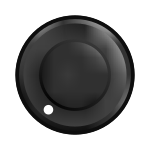
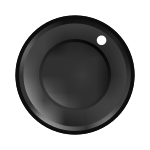
[minor] finished encoder images and UI logic.

diff --git a/Source/EncoderLookAndFeel.cpp b/Source/EncoderLookAndFeel.cpp
@@ -1,0 +1,32 @@
+#pragma once
+#include "EncoderLookAndFeel.h"
+#include "Parameters.h"
+
+EncoderLookAndFeel::EncoderLookAndFeel()
+{
+	encoderBodyImage	= encoderBodyImage.rescaled(ComponentSizes::StepEncoderWidth, ComponentSizes::StepEncoderHeight, Graphics::highResamplingQuality);
+	thumbImage			= thumbImage.rescaled(ComponentSizes::StepEncoderWidth, ComponentSizes::StepEncoderHeight, Graphics::highResamplingQuality);
+}
+
+EncoderLookAndFeel::~EncoderLookAndFeel()
+{
+	
+}
+
+void EncoderLookAndFeel::drawRotarySlider(Graphics& g, int x, int y, int width, int height, float sliderPosProportional, float rotaryStartAngle, float rotaryEndAngle, Slider& slider)
+{
+	const float angle	= rotaryEndAngle + sliderPosProportional * (rotaryEndAngle - rotaryStartAngle);
+	const float pivotX	= ComponentSizes::StepEncoderWidth / 2.0;
+	const float pivotY	= ComponentSizes::StepEncoderHeight / 2.0;
+	g.drawImage(
+		encoderBodyImage,
+		x,
+		y,
+		ComponentSizes::StepEncoderWidth,
+		ComponentSizes::StepEncoderHeight,
+		x,
+		y,
+		ComponentSizes::StepEncoderWidth,
+		ComponentSizes::StepEncoderHeight);
+	g.drawImageTransformed(thumbImage, AffineTransform::rotation(angle, pivotX, pivotY));
+}

diff --git a/Source/EncoderLookAndFeel.h b/Source/EncoderLookAndFeel.h
@@ -1,0 +1,17 @@
+#pragma once
+#include "../JuceLibraryCode/JuceHeader.h"
+
+class EncoderLookAndFeel : public LookAndFeel_V4
+{
+public:
+
+	EncoderLookAndFeel();
+	~EncoderLookAndFeel();
+
+	void drawRotarySlider(Graphics& g, int x, int y, int width, int height, float sliderPosProportional, float rotaryStartAngle, float rotaryEndAngle, Slider& slider) override;
+
+private:
+
+	Image thumbImage{ ImageCache::getFromMemory(BinaryData::EncoderThumb_png, BinaryData::EncoderThumb_pngSize) };
+	Image encoderBodyImage{ ImageCache::getFromMemory(BinaryData::EncoderBody_png, BinaryData::EncoderBody_pngSize) };
+};

diff --git a/Source/StepSequencerEditor.cpp b/Source/StepSequencerEditor.cpp
@@ -5,9 +5,7 @@
 StepSequencerEditor::StepSequencerEditor(StepSequencerEngine& p) : AudioProcessorEditor (&p), processor (p)
 {
 	backPlate				= Drawable::createFromImageData(BinaryData::BackPanel_png, BinaryData::BackPanel_pngSize);
-
 	stepEncoders			= std::make_unique<StepEncoders>();
-
 	stepButtons				= std::make_unique<StepButtons>();
 	transportLEDs			= std::make_unique<TransportLEDs>(p);
 	underStepButtonsPanel	= std::make_unique<BlankPanel>(ComponentSizes::windowWidth, ComponentSizes::UnderStepButtonsPanelHeight);

diff --git a/Source/Encoder.cpp b/Source/Encoder.cpp
@@ -1,18 +1,15 @@
 #include "Encoder.h"
+#include "EncoderLookAndFeel.h"
 
 Encoder::Encoder(const String& name) : Slider(name)
 {
 	setOpaque(true);
-	setSliderStyle(SliderStyle::Rotary);
+	setSliderStyle(SliderStyle::RotaryHorizontalVerticalDrag);
 	setTextBoxStyle(Slider::NoTextBox, true, 0, 0);
+	setLookAndFeel(&encoderLookAndFeel);
 }
 
 Encoder::~Encoder()
 {
 	
-}
-
-void Encoder::paint(Graphics& g)
-{
-	g.drawImage(image, getLocalBounds().toFloat());
 }

diff --git a/Source/Encoder.h b/Source/Encoder.h
@@ -1,5 +1,6 @@
 #pragma once
 #include "../JuceLibraryCode/JuceHeader.h"
+#include "EncoderLookAndFeel.h"
 
 class Encoder : public Slider
 {
@@ -8,10 +9,7 @@ public:
 	Encoder(const String& name);
 	~Encoder();
 
-	void paint(Graphics& g) override;
-
 private:
 
-	Image image{ ImageCache::getFromMemory(BinaryData::Encoder_png, BinaryData::Encoder_pngSize) };
-
+	EncoderLookAndFeel encoderLookAndFeel;
 };

diff --git a/Source/StepEncoders.h b/Source/StepEncoders.h
@@ -9,8 +9,6 @@ public:
 	StepEncoders();
 	~StepEncoders();
 
-	//void resized() override;
-
 	OwnedArray<Encoder> encoders;
 
 private:

diff --git a/Source/StepEncoders.cpp b/Source/StepEncoders.cpp
@@ -21,8 +21,3 @@ StepEncoders::~StepEncoders()
 {
 	
 }
-
-//void StepEncoders::resized()
-//{
-//	
-//}
